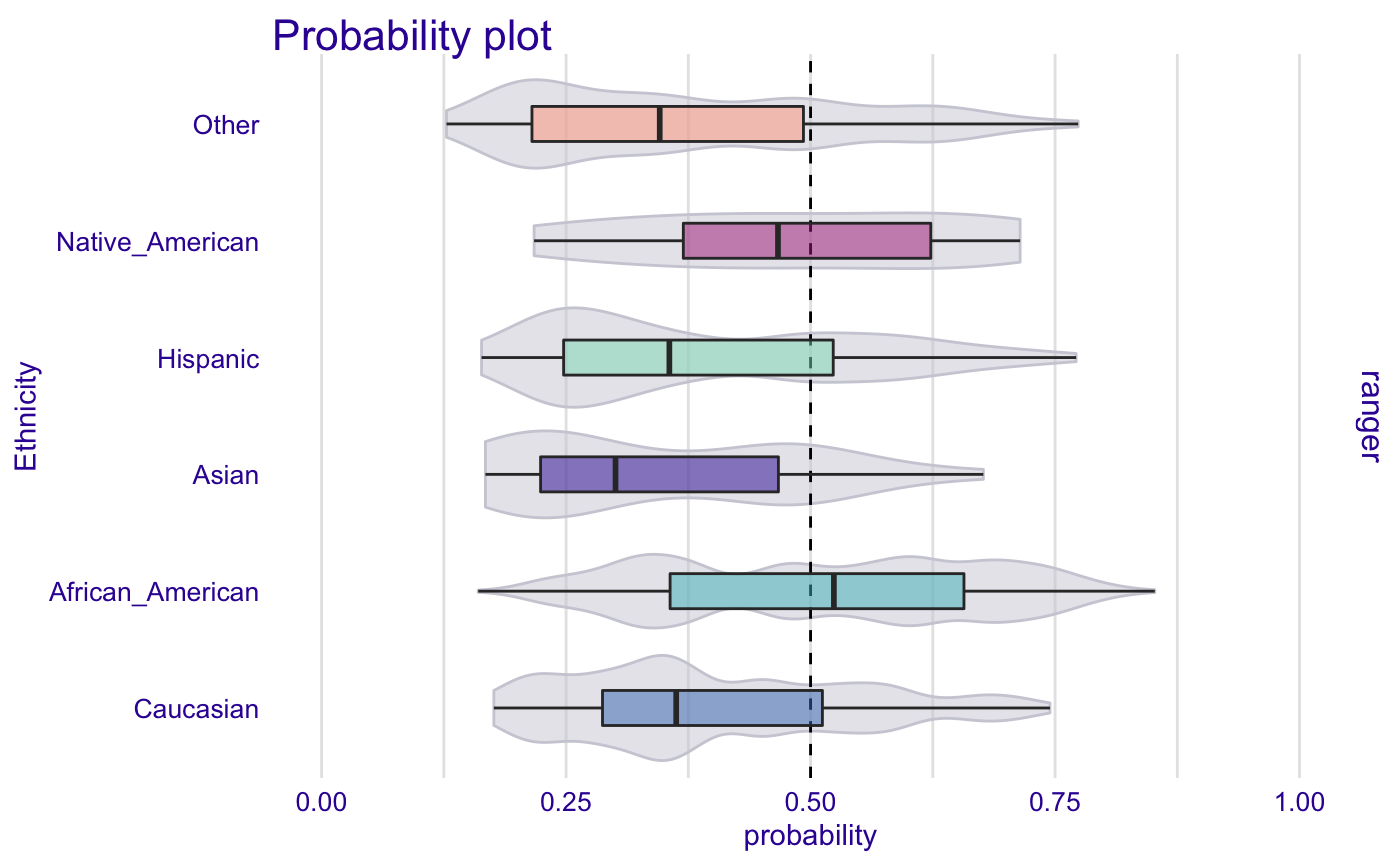
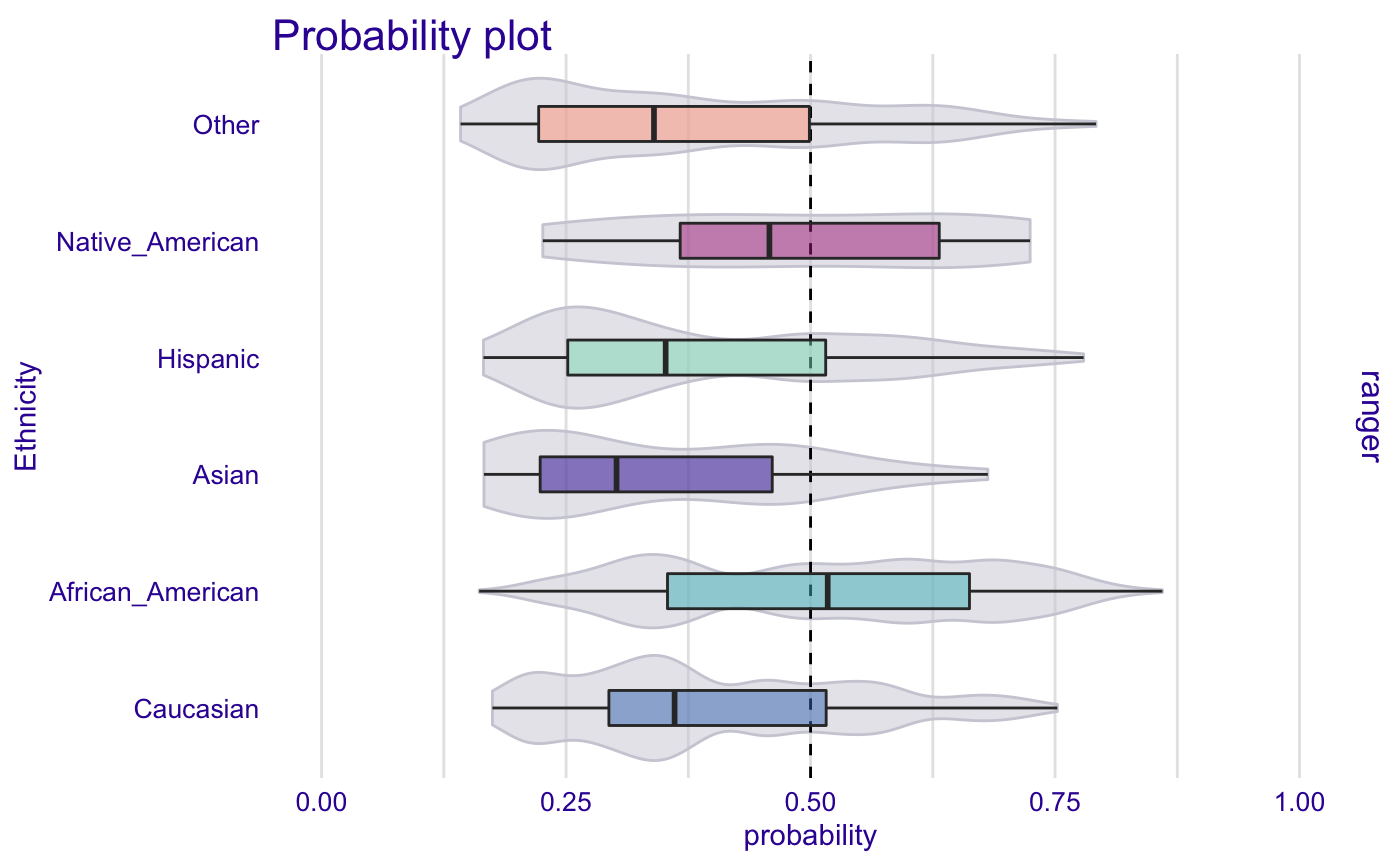
Built site for FairModels: 0.1.0@5fdaa07

diff --git a/index.html b/index.html
@@ -84,18 +84,53 @@
       </header><div class="row">
   <div class="contents col-md-9">
 
-<p><!-- badges: start --> <a href="https://codecov.io/gh/jakwisn/FairModels?branch=master"><img src="https://codecov.io/gh/jakwisn/FairModels/branch/master/graph/badge.svg" alt="Codecov test coverage"></a> <!-- badges: end --></p>
-<p><!-- badges: start --> <a href="https://github.com/jakwisn/FairModels/actions"><img src="https://github.com/jakwisn/FairModels/workflows/R-CMD-check/badge.svg" alt="R build status"></a> <!-- badges: end --></p>
-<div id="fairmodels-name-can-change" class="section level1">
+
+<p><a href="https://github.com/jakwisn/FairModels/actions"><img src="https://github.com/jakwisn/FairModels/workflows/R-CMD-check/badge.svg" alt="R build status"></a> <!-- badges: end --></p>
+<div id="fairmodels" class="section level1">
 <div class="page-header"><h1 class="hasAnchor">
-<a href="#fairmodels-name-can-change" class="anchor"></a>FairModels [Name can change]</h1></div>
-<div id="mi2-data-lab" class="section level2">
+<a href="#fairmodels" class="anchor"></a>FairModels</h1></div>
+<div id="overwiew" class="section level2">
 <h2 class="hasAnchor">
-<a href="#mi2-data-lab" class="anchor"></a>Mi^2 Data Lab</h2>
-<p>Package for fairness audit and visualization. Make sure your models are classifying protected groups similarly.</p>
-<p><img src="https://uploads.yields.io/a01e2f/bias.png" alt="Image description"></p>
-<p>BEWARE! Work in progres ;)</p>
-<p>ps. not my photo origin: yields.io/fairness-and-AI</p>
+<a href="#overwiew" class="anchor"></a>Overwiew</h2>
+<p><code>FairModels</code> is package for fairness audit and visualization. Uses models explained with <a href="https://modeloriented.github.io/DALEX">DALEX</a> and calculates fairness metrics based on confusion matrix for protected group. Allows to compare and gain information about various machine learning models. <em>Make sure your models are classifying protected groups similarly</em>.</p>
+</div>
+<div id="preview" class="section level2">
+<h2 class="hasAnchor">
+<a href="#preview" class="anchor"></a>Preview</h2>
+<center>
+<img src="reference/figures/heatmap.png">
+</center>
+<div id="used-metrics" class="section level3">
+<h3 class="hasAnchor">
+<a href="#used-metrics" class="anchor"></a>Used metrics</h3>
+<ul>
+<li>
+<strong>TPR</strong> - True Positive Rate (Sensitivity, Recall)</li>
+<li>
+<strong>TNR</strong> - True Negative Rate (Specificity)</li>
+<li>
+<strong>PPV</strong> - Positive Predictive Value (Precision)</li>
+<li>
+<strong>NPV</strong> - Negative Predictive Value</li>
+<li>
+<strong>FNR</strong> - False Negative Rate</li>
+<li>
+<strong>FPR</strong> - False Positive Rate</li>
+<li>
+<strong>FDR</strong> - False Discovery Rate</li>
+<li>
+<strong>FOR</strong> - False Omision Rate</li>
+<li>
+<strong>TS</strong> - Threat Score</li>
+<li>
+<strong>ACC</strong> - Accuracy</li>
+<li>
+<strong>F1</strong> - F1 Score</li>
+<li>
+<strong>MCC</strong> - Matthews correlation coefficient</li>
+</ul>
+<p>more on those metrics : <a href="https://en.wikipedia.org/wiki/Confusion_matrix">Confusion Matrix</a> `</p>
+</div>
 </div>
 </div>
 
@@ -115,7 +150,13 @@
 </ul>
 </div>
 
-  </div>
+  <div class="dev-status">
+<h2>Dev status</h2>
+<ul class="list-unstyled">
+<li><a href="https://codecov.io/gh/jakwisn/FairModels?branch=master"><img src="https://codecov.io/gh/jakwisn/FairModels/branch/master/graph/badge.svg" alt="Codecov test coverage"></a></li>
+</ul>
+</div>
+</div>
 </div>
 
 

diff --git a/articles/tutorial.html b/articles/tutorial.html
@@ -139,9 +139,9 @@
 #&gt;   -&gt; target variable   :  6172  values 
 #&gt;   -&gt; model_info        :  package ranger , ver. 0.12.1 , task classification ( [33m default [39m ) 
 #&gt;   -&gt; predict function  :  yhat.ranger  will be used ( [33m default [39m )
-#&gt;   -&gt; predicted values  :  numerical, min =  0.1277113 , mean =  0.4550725 , max =  0.8519777  
+#&gt;   -&gt; predicted values  :  numerical, min =  0.1420987 , mean =  0.4547646 , max =  0.8597576  
 #&gt;   -&gt; residual function :  difference between y and yhat ( [33m default [39m )
-#&gt;   -&gt; residuals         :  numerical, min =  -0.7826346 , mean =  4.73733e-05 , max =  0.8390418  
+#&gt;   -&gt; residuals         :  numerical, min =  -0.7941515 , mean =  0.000355248 , max =  0.834482  
 #&gt;  [32m A new explainer has been created! [39m</code></pre>
 <p>Than we create <code>fairness_object</code> with <code><a href="../reference/create_fairness_object.html">create_fairness_object()</a></code></p>
 <div class="sourceCode" id="cb5"><html><body><pre class="r"><span class="no">fobject</span> <span class="kw">&lt;-</span> <span class="fu"><a href="../reference/create_fairness_object.html">create_fairness_object</a></span>(<span class="no">rf_explainer</span>,
